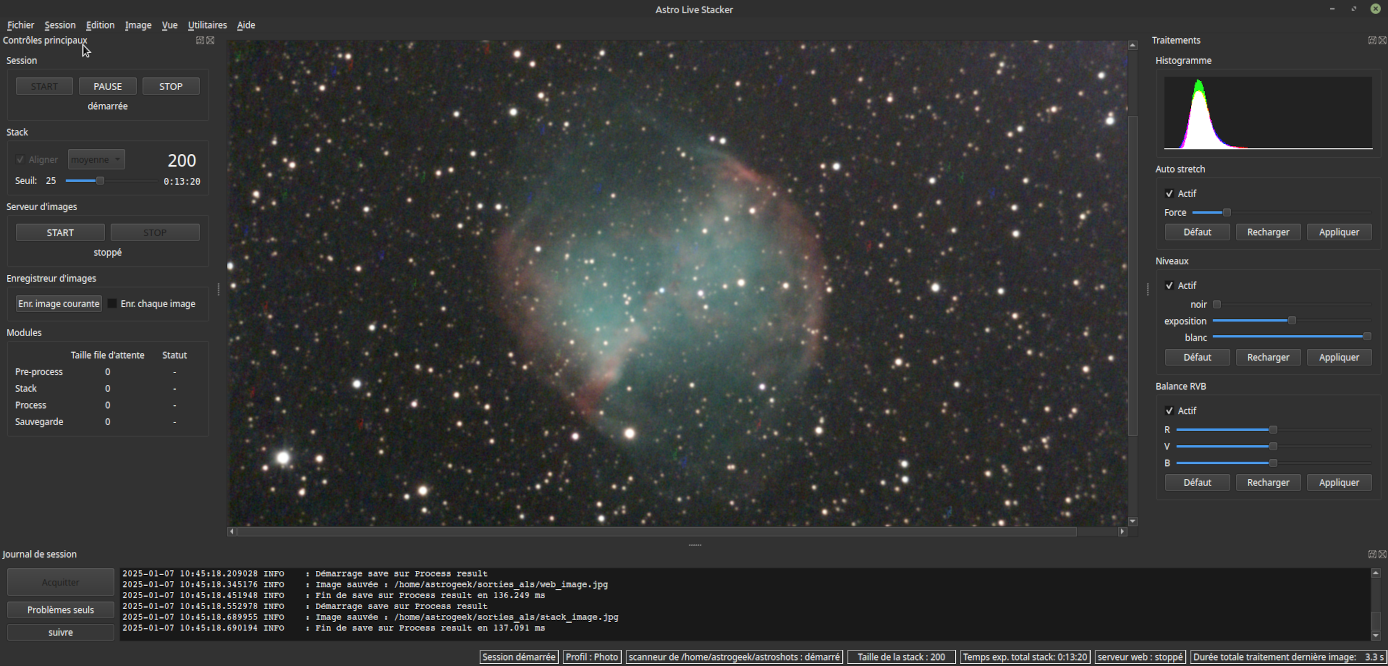
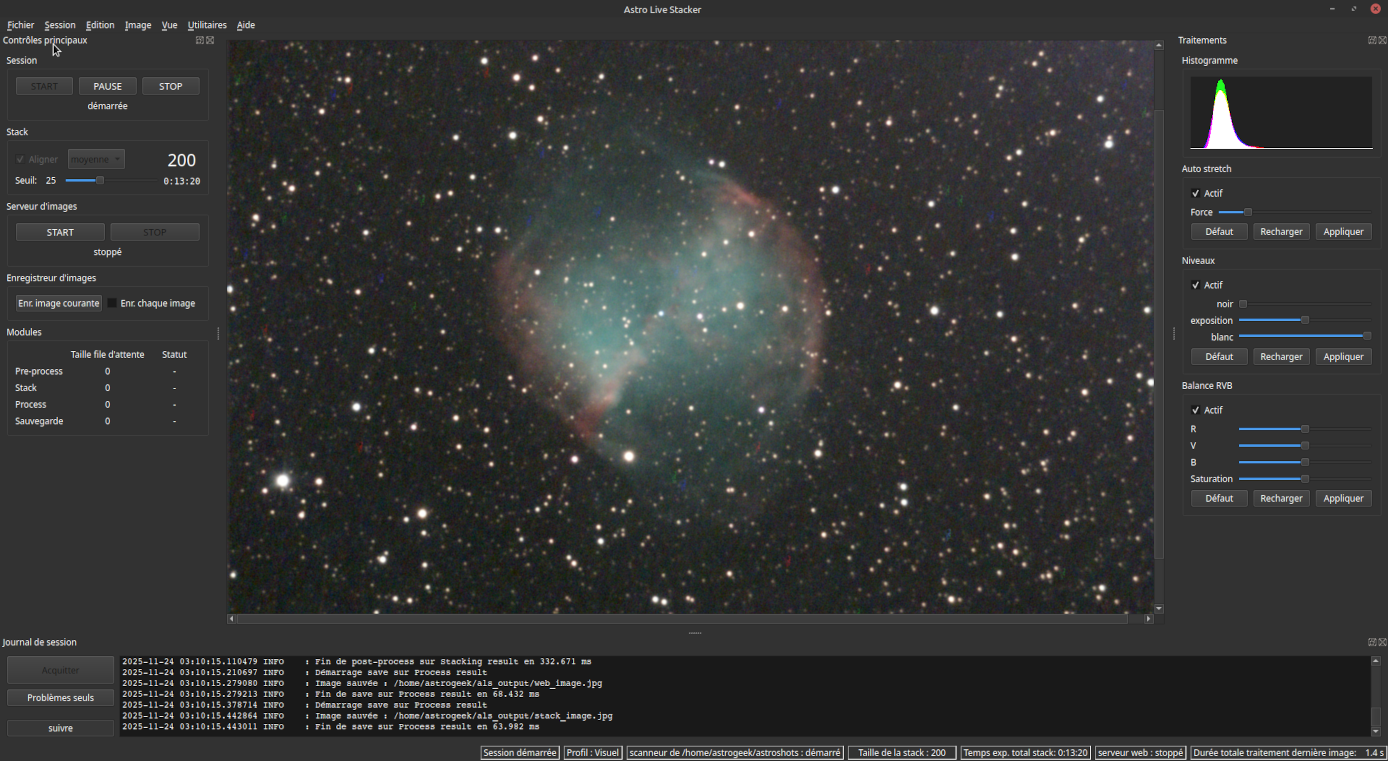
update FR quickstart screenshots
We now have a saturation slider

diff --git a/website/content/fr/docs/v1.0/quickstart/_index.md b/website/content/fr/docs/v1.0/quickstart/_index.md
@@ -2,7 +2,7 @@
 title: "Premier démarrage"
 description: "Tout savoir pour bien débuter avec ALS."
 author: "ALS Team"
-lastmod: 2025-11-07T16:29:34Z
+lastmod: 2025-11-24T18:13:40Z
 keywords: [ "Premier démarrage d'ALS" ]
 draft: false
 type: "docs"
@@ -204,7 +204,7 @@ ALS et nos outils de suivi sont des logiciels **opensource**, leur code source e
 {{< figure src="ready.png"
 caption="ALS prêt à démarrer sa toute première session"
 width="1388px"
-height="666px"
+height="761px"
 alt="Fenêtre principale d'ALS montrant une interface logicielle pour empiler des images astronomiques en temps réel. L'interface comprend des sections pour les contrôles principaux (démarrer, pause, arrêter), les paramètres d'empilement (aligner, seuil), le serveur d'images (démarrer, arrêter), la sauvegarde d'images (sauvegarder l'image actuelle, sauvegarder chaque image), les modules (taille de la file d'attente, statut), le traitement (histogramme, étirement automatique, niveaux, balance RGB) et le journal de session." >}}
 {{< /center >}}
 
@@ -251,7 +251,7 @@ alt="Journal de session affichant des messages d'information avec horodatages. L
 {{< figure src="stacked_01.png"
 caption="ALS après traitement de la 1<sup>ère</sup> image"
 width="1388px"
-height="666px"
+height="761px"
 alt="Fenêtre principale d'ALS après le traitement de la première brute, affichant une image initiale et légèrement bruitée de la nébuleuse Messier 27 avec des étoiles éparpillées. Le journal de session montre des messages de traitement réussi. Le panneau de traitement sur la droite offre des ajustements de l'histogramme et des niveaux, l'équilibre RGB et les réglages d'étirement automatique." >}}
 {{< /center >}}
 
@@ -268,7 +268,7 @@ les brutes déjà traitées.
 {{< figure src="stacked_15.png"
 caption="ALS après traitement de la 15<sup>ème</sup> image. Le contraste et le bruit s'améliorent"
 width="1388px"
-height="666px"
+height="761px"
 alt="Fenêtre principale d'ALS après le traitement de la 15e brute, affichant une image moins bruitée et plus détaillée de la nébuleuse Messier 27 avec des étoiles éparpillées. Le journal de session montre des messages de traitement réussi. Le panneau de traitement sur la droite offre des ajustements de l'histogramme et des niveaux, l'équilibre RGB et les réglages d'étirement automatique." >}}
 {{< /center >}}
 
@@ -297,7 +297,7 @@ interrompre la navigation.
 {{< figure src="stacked_200.png"
 caption="ALS après traitement de la 200<sup>ème</sup> image. Une belle image, détaillée et lissée"
 width="1388px"
-height="666px"
+height="761px"
 alt="Fenêtre principale d'Astro Live Stacker (ALS) après le traitement de la 200e brute, affichant une image lisse, détaillée et à fort contraste de la nébuleuse Messier 27 avec de nombreuses étoiles. Le journal de session en bas montre des messages de traitement réussi et le panneau de sauvegarde d'images à gauche indique que les images ont été sauvegardées avec succès. Le panneau de droite comprend des options de traitement telles que les ajustements d'histogramme, l'étirement automatique, les niveaux et l'équilibre RGB." >}}
 {{< /center >}}
 
